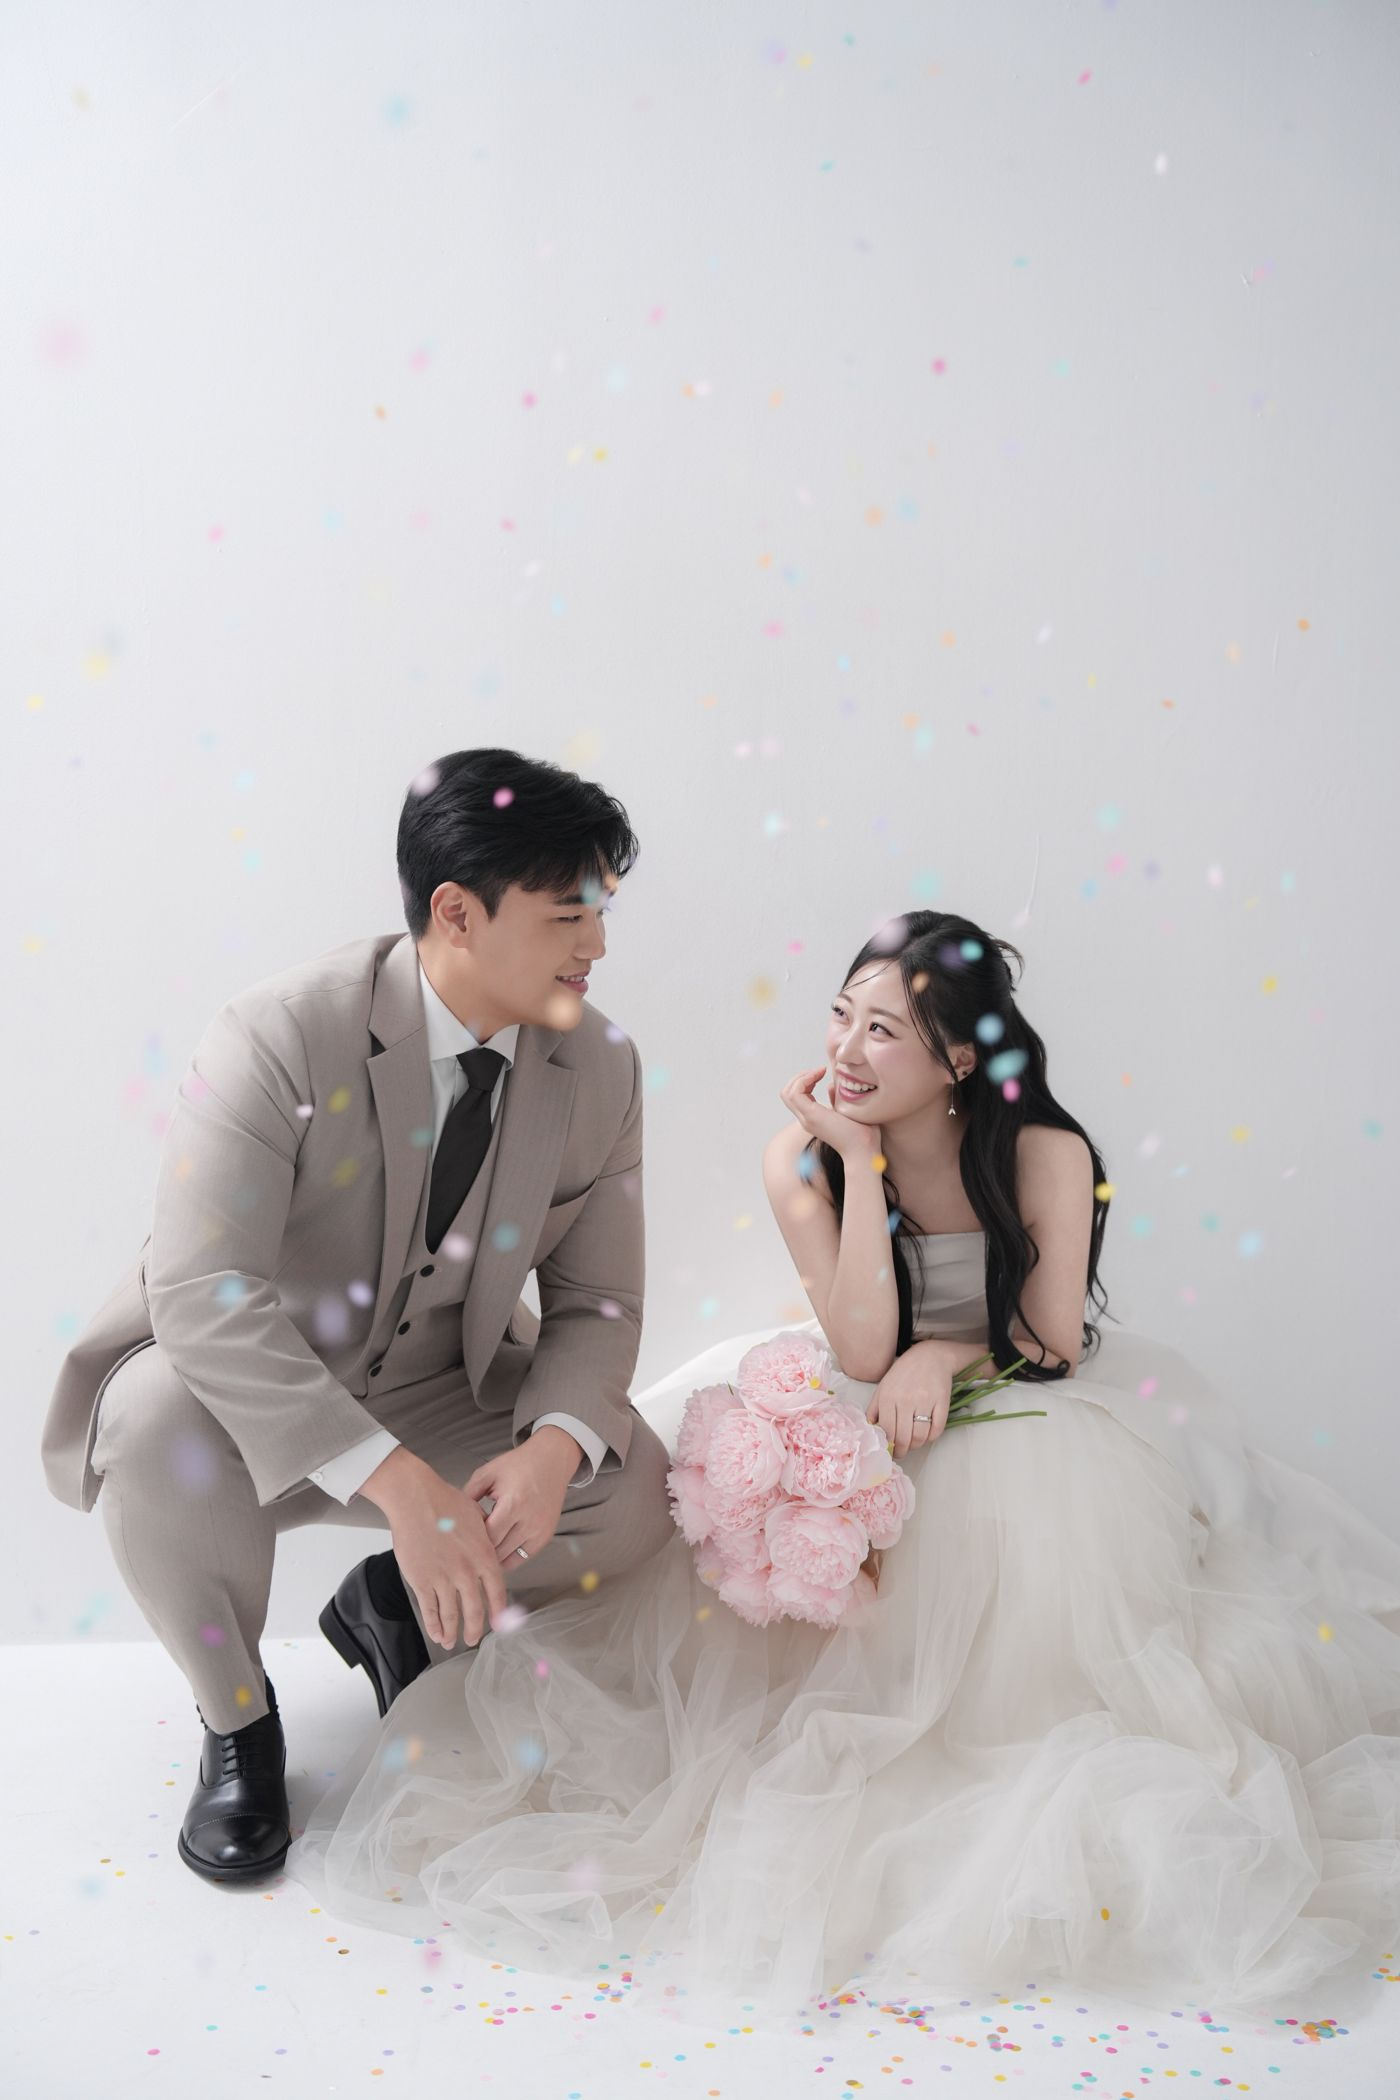
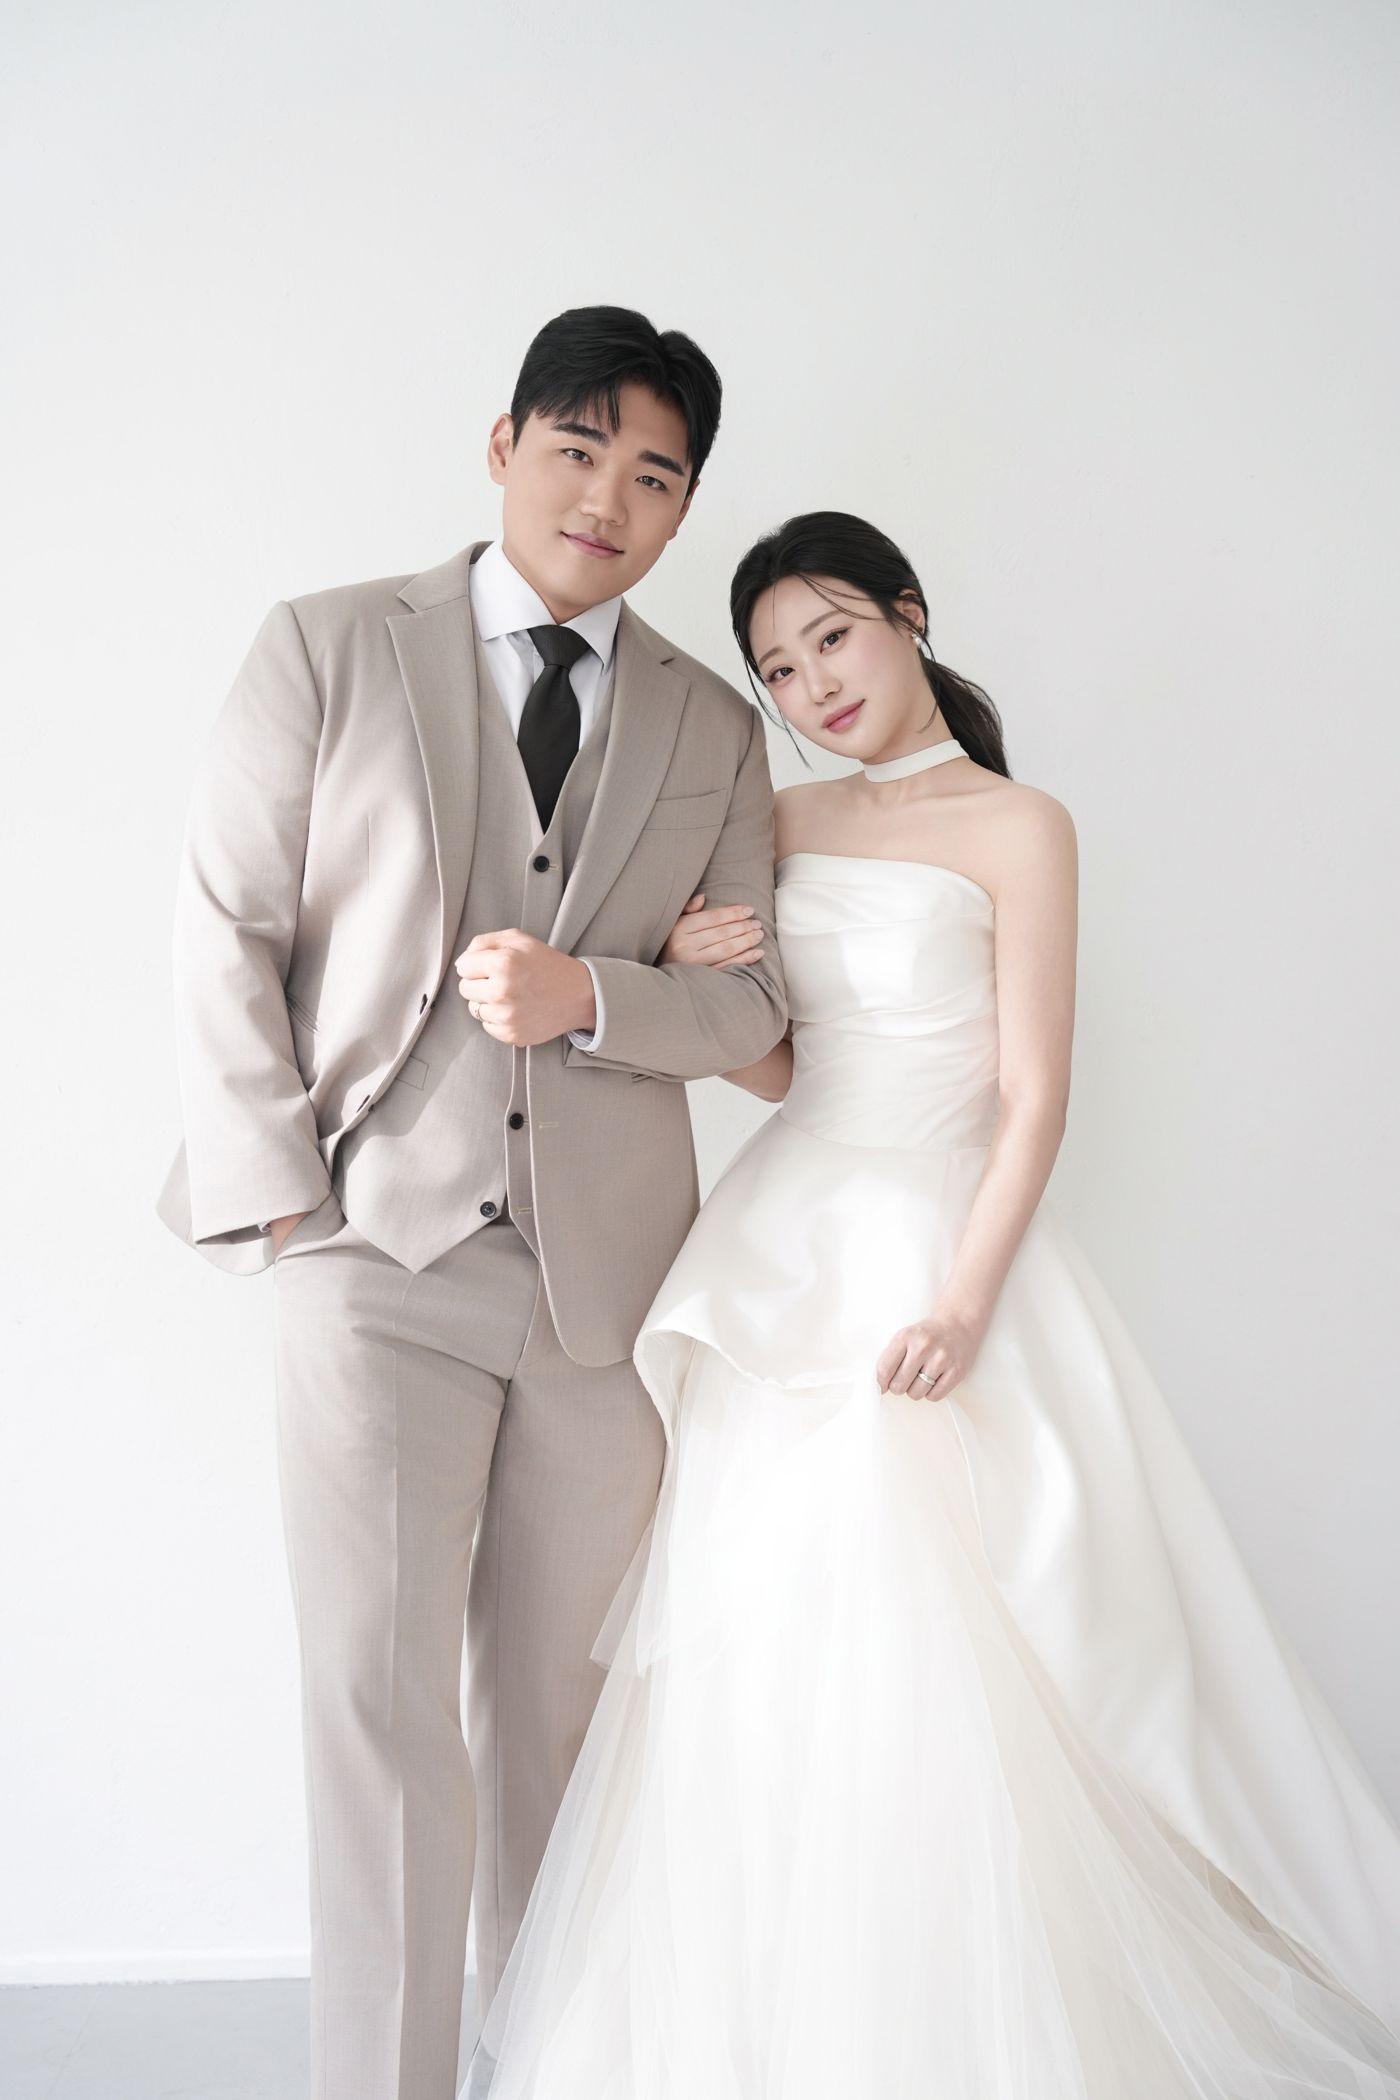
design: 메인 사진을 갤러리 2번과 맞바꾸고, 사진 위 'Wedding Day' 필기 애니메이션 추가
Claude-Session: https://claude.ai/code/session_01DcRmgQ1t9hdmfFSQSQYUob

diff --git a/wedding/index.html b/wedding/index.html
@@ -77,7 +77,20 @@
 
   /* ---------- 1. 대문사진 ---------- */
   .cover { padding: 0; }
+  .cover-photo { position: relative; }
   .cover img { display: block; width: 100%; height: auto; }
+  /* 사진 위 손글씨: 획을 따라 그린 뒤 잉크가 채워짐 */
+  .cover-title { position: absolute; left: 6%; right: 6%; top: 6%; width: 88%; height: auto; overflow: visible; }
+  .cover-title text {
+    font-family: 'Pinyon Script', cursive; fill: transparent;
+    stroke: var(--main); stroke-width: .9; stroke-linejoin: round;
+    stroke-dasharray: 1200; stroke-dashoffset: 1200;
+  }
+  .cover-title.play text { animation: coverWrite 2.6s ease-in-out forwards, coverInk .8s ease forwards; }
+  .cover-title.play .t1 { animation-delay: 0s, 1.8s; }
+  .cover-title.play .t2 { animation-delay: 1.1s, 3.1s; animation-duration: 2.8s, .8s; }
+  @keyframes coverWrite { to { stroke-dashoffset: 0; } }
+  @keyframes coverInk { to { fill: var(--main); stroke-width: 0; } }
 
   .cover-info { padding: 28px 24px 8px; }
   .cover-date {
@@ -520,7 +533,13 @@
 
   <!-- 1. 대문사진 -->
   <section class="cover">
-    <img src="img/main.jpg" alt="김민석 · 황진하 웨딩 사진">
+    <div class="cover-photo">
+      <img src="img/main.jpg" alt="김민석 · 황진하 웨딩 사진">
+      <svg class="cover-title" id="cover-title" viewBox="0 0 400 150" role="img" aria-label="Wedding Day">
+        <text class="t1" x="40" y="70" font-size="76">Wedding</text>
+        <text class="t2" x="190" y="135" font-size="76">Day</text>
+      </svg>
+    </div>
     <div class="cover-info">
       <p class="cover-date">2027. 01. 09 SAT</p>
       <p class="cover-time">11:00 AM</p>
@@ -926,6 +945,14 @@
     el.addEventListener('click', finish);
     setTimeout(finish, 4200);
   });
+
+  // ----- 메인 사진 위 'Wedding Day' 필기 애니메이션 (오프닝이 끝나면 시작) -----
+  (function () {
+    const el = $('cover-title');
+    const fontReady = document.fonts ? document.fonts.load('76px "Pinyon Script"') : Promise.resolve();
+    Promise.all([splashDone, Promise.race([fontReady, new Promise(r => setTimeout(r, 2500))])])
+      .then(() => el.classList.add('play'));
+  })();
 
   // ----- 2. Our Wedding day 필기 애니메이션 (폰트 로드 후, 화면에 보일 때 시작) -----
   (function () {
